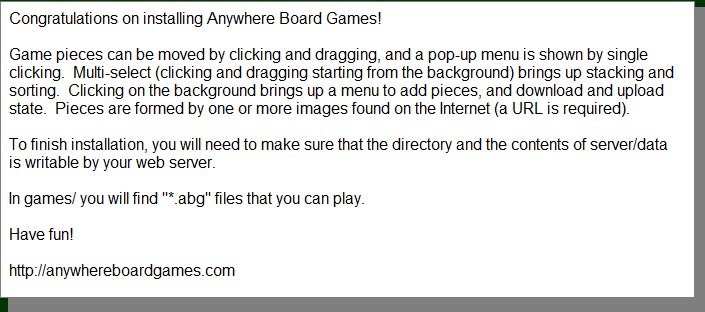
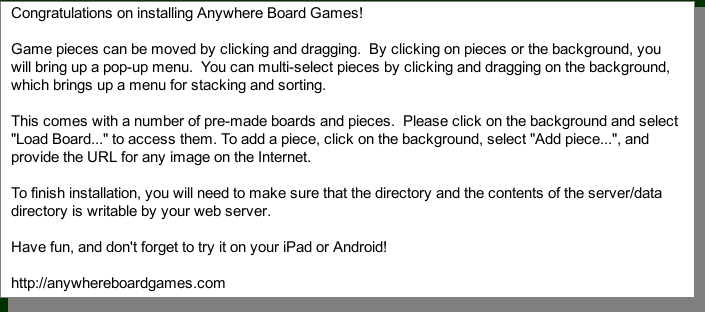
Added game_piece sets, updated introduction page, and cleaned up load board dialog

diff --git a/client/index.php b/client/index.php
@@ -93,25 +93,27 @@
 		<div id="upload_board_dialog" title="Open a Board">
 			<form enctype="multipart/form-data" id="upload_board_form" method="POST">
 				<fieldset>
-					<P>
-					<span>Please upload an ABG file, enter a URL to an ABG file, or select one of the standard boards:</span>
-					</P>
+					<span><B>Please select a pre-created board or set of pieces:</B></span>
+					<BR/>
+					<label>Select one:</label>
+					<select style="width: 75%;" name="url_select" id="upload_board_select" class="ui-widget-content ui-corner-all">
+						<option value="">-</option>
+						<option value="../games/checkers/checkers.abg">Games: Checkers</option>
+						<option value="../games/deck/deck.abg">Pieces: Blue deck of cards</option>
+						<option value="../games/game_pieces/dice.abg">Pieces: 6-sided Dice</option>
+						<option value="../games/game_pieces/quarter.abg">Pieces: A flipping coin</option>
+						<option value="../games/intro.abg">Introduction</option>
+					</select>
+					<P></P>
+					<span><B>Or upload your own ABG file or URL:</B></span>
+					<BR/>
 					<input type="hidden" name="action" value="upload" />
 					<label for="upload_board_file">Board File:</label>
 					<input type="file" name="file" id="upload_board_file" class="text ui-widget-content ui-corner-all" />
 					<BR/>
 					<label for="upload_board_url">URL:</label>
 					<input type="text" style="width: 75%;" name="url" id="upload_board_url" class="text ui-widget-content ui-corner-all" />
-					<BR/>
-					<label for="upload_board_select">Board:</label>
-					<select style="width: 75%;" name="url_select" id="upload_board_select" class="ui-widget-content ui-corner-all">
-						<option value="">-</option>
-						<option value="../games/deck/deck.abg">A blue deck of cards</option>
-						<option value="../games/checkers/checkers.abg">Checkers</option>
-						<option value="../games/intro.abg">Introduction</option>
-					</select>
-					<BR/>
-					<label></label>
+					<P></P>
 					<span>
 						<input type="checkbox" name="clear_world" checked="checked" value="1">
 						Clear the current board
